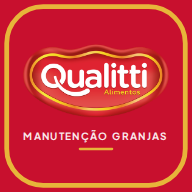
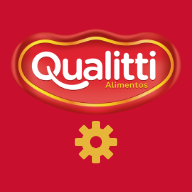
Add files via upload

diff --git a/app.js b/app.js
@@ -5,7 +5,14 @@
    ===================================================================== */
 "use strict";
 const C = window.CONFIG;
-const sb = window.supabase.createClient(C.SUPABASE_URL, C.SUPABASE_ANON_KEY);
+const VERSAO = "7.0";
+// Toda chamada ao servidor tem prazo: com sinal fraco, em vez de ficar "carregando" para sempre, avisa e deixa tentar de novo
+function fetchComPrazo(url, opts = {}) {
+  const c = new AbortController(), t = setTimeout(() => c.abort(), 20000);
+  opts.signal?.addEventListener("abort", () => c.abort());
+  return fetch(url, { ...opts, signal: c.signal }).finally(() => clearTimeout(t));
+}
+const sb = window.supabase.createClient(C.SUPABASE_URL, C.SUPABASE_ANON_KEY, { global: { fetch: fetchComPrazo } });
 const $ = (s, el = document) => el.querySelector(s);
 const $$ = (s, el = document) => [...el.querySelectorAll(s)];
 const esc = (v) => String(v ?? "").replace(/[&<>"']/g, (c) => ({ "&": "&amp;", "<": "&lt;", ">": "&gt;", '"': "&quot;", "'": "&#39;" }[c]));
@@ -138,7 +145,8 @@ function toast(msg, bad = false) {
   const t = $("#toast"); t.innerHTML = `${ic(bad ? "alert" : "checkc")}<span>${esc(msg)}</span>`; t.className = "on" + (bad ? " bad" : "");
   clearTimeout(toast.t); toast.t = setTimeout(() => (t.className = ""), bad ? 5000 : 2600);
 }
-const errMsg = (e) => { const m = e?.message || String(e); return /fetch|network/i.test(m) ? "Sem conexão. Verifique a internet e tente de novo." : m; };
+const erroRede = (e) => /fetch|network|abort|timeout|Load failed/i.test(e?.message || e?.name || String(e));
+const errMsg = (e) => { const m = e?.message || String(e); return erroRede(e) ? (navigator.onLine ? "O servidor demorou para responder. Verifique o sinal e tente de novo." : "Sem conexão. Verifique a internet e tente de novo.") : m; };
 async function rpc(n, a) { const { data, error } = await sb.rpc(n, a); if (error) throw error; return data; }
 async function busy(btn, fn) { btn.disabled = true; try { await fn(); } catch (e) { toast(errMsg(e), true); } finally { btn.disabled = false; } }
 
@@ -156,6 +164,7 @@ function telaLogin(msg = "") {
     </div>
     <div class="login-lado">
       <form class="caixa-login" id="fLogin">
+        ${S.status?.em_manutencao ? `<div class="note" style="margin-bottom:14px"><b>Sistema em manutenção.</b> ${esc(S.status.mensagem || "Voltamos em breve.")} Só administradores conseguem entrar agora.</div>` : ""}
         <h2>Entrar</h2>
         <p class="sub-login">Use o usuário e a senha fornecidos pelo administrador.</p>
         <label class="lg">Usuário<span class="campo-ic">${ic("user", "")}<input name="login" autocomplete="username" autocapitalize="none" spellcheck="false" placeholder="ex.: joao.silva"></span></label>
@@ -196,14 +205,24 @@ async function carregarUsuarios() {
   }
   S.usuarios = Object.fromEntries(data.map((u) => [u.id, { ...u, foto: u.foto_em ? cache[u.id]?.foto || null : null }]));
 }
+async function statusSistema() {
+  try { const { data, error } = await sb.from("app_status").select("em_manutencao,mensagem,atualizado_em").maybeSingle(); return error ? { erro: error } : data || {}; }
+  catch (e) { return { erro: e }; }
+}
 async function iniciar() {
+  const st = await statusSistema();
+  if (st.erro && erroRede(st.erro)) return telaForaDoAr();
+  S.status = st;
   const { data: { session } } = await sb.auth.getSession();
   if (!session) return telaLogin();
-  const { data: eu } = await sb.from("usuarios").select(COLS_USU).eq("id", session.user.id).maybeSingle();
+  const { data: eu, error: eEu } = await sb.from("usuarios").select(COLS_USU).eq("id", session.user.id).maybeSingle();
+  if (eEu && erroRede(eEu)) return telaForaDoAr();
   if (!eu?.ativo || eu.excluido_em || !eu.perfis.length) { await sb.auth.signOut(); return telaLogin("Seu usuário não tem acesso liberado. Procure o administrador."); }
   S.eu = eu;
+  if (st.em_manutencao && !eu.perfis.includes("admin")) return telaManutencao(st);
   const [n, g, c, j] = await Promise.all([sb.from("nucleos").select("*").order("nome"), sb.from("galpoes").select("*").order("numero"),
     sb.from("carros_almoxarifado").select("*").order("codigo"), sb.from("jornada_config").select("*").maybeSingle(), carregarUsuarios()]);
+  if (n.error || g.error) return telaForaDoAr();
   S.nucleos = n.data.map((x) => ({ ...x, galpoes: g.data.filter((y) => y.nucleo_id === x.id).map((y) => y.numero) }));
   S.nucleoPorId = Object.fromEntries(S.nucleos.map((x) => [x.id, x]));
   S.carros = (c.data || []).filter((x) => x.ativo);
@@ -213,14 +232,50 @@ async function iniciar() {
   const r = rotas();
   ir(r.find((x) => x.id === S.rota) ? S.rota : r[0].id);
 }
+// Telas de "fora do ar": manutenção programada (ligada pelo admin) e servidor sem resposta. Ambas se atualizam sozinhas.
+function telaAviso({ icone, titulo, texto, detalhe = "", seg = 30, acao }) {
+  clearInterval(telaAviso.t); S.eu = S.eu && acao === "manut" ? S.eu : null;
+  $$(".sheet-wrap, .page").forEach((x) => x.remove());
+  $("#app").innerHTML = `<section class="fora"><div class="fora-box">
+    <img src="${C.LOGO}" alt="${esc(C.NOME_EMPRESA)}">
+    <div class="fora-ic">${ic(icone)}</div><h1>${titulo}</h1><p>${texto}</p>${detalhe ? `<div class="fora-msg">${detalhe}</div>` : ""}
+    <p class="fora-cont" id="foraCont"></p>
+    <button class="btn btn-primary" id="foraTentar">${ic("refresh")}Tentar agora</button>
+    ${acao === "manut" ? `<button class="btn btn-ghost" id="foraSair">Entrar com outro usuário</button>` : ""}</div></section>`;
+  let falta = seg;
+  const tick = () => { $("#foraCont").textContent = `Nova tentativa automática em ${falta} s`; if (--falta < 0) { clearInterval(telaAviso.t); iniciar().catch(() => telaForaDoAr()); } };
+  tick(); telaAviso.t = setInterval(tick, 1000);
+  $("#foraTentar").onclick = () => { clearInterval(telaAviso.t); $("#foraCont").textContent = "Conectando…"; iniciar().catch(() => telaForaDoAr()); };
+  $("#foraSair")?.addEventListener("click", () => { clearInterval(telaAviso.t); sair(); });
+}
+function telaManutencao(st) {
+  telaAviso({ icone: "tool", titulo: "Sistema em manutenção", acao: "manut",
+    texto: "Estamos fazendo uma atualização. O app volta sozinho assim que terminar — não precisa fazer nada.",
+    detalhe: st?.mensagem ? esc(st.mensagem) : "", seg: 30 });
+}
+function telaForaDoAr() {
+  const off = !navigator.onLine;
+  telaAviso({ icone: off ? "wifioff" : "cloud", titulo: off ? "Sem internet" : "Sistema temporariamente fora do ar",
+    texto: off ? "Seu celular está sem conexão. Assim que a internet voltar, o app reconecta sozinho."
+      : "Não conseguimos falar com o servidor agora. Pode ser uma instabilidade passageira ou uma atualização em andamento. Aguarde: o app tenta de novo sozinho.",
+    detalhe: "Nada do que já foi registrado se perde: tudo fica guardado no banco de dados.", seg: 20 });
+}
+
 // Bloqueio vale na hora: o banco já nega os dados; aqui o app confere o acesso a cada minuto e ao voltar para a tela
 function vigiarAcesso() {
   clearInterval(vigiarAcesso.t);
   const conferir = async () => {
-    if (!S.eu) return;
-    const { data, error } = await sb.from("usuarios").select("ativo,excluido_em").eq("id", S.eu.id).maybeSingle();
-    if (error && !/fetch|network/i.test(error.message || "")) return sair("Sua sessão expirou. Entre novamente.");
+    if (!S.eu || $(".fora")) return;
+    let { data, error } = await sb.from("usuarios").select("ativo,excluido_em").eq("id", S.eu.id).maybeSingle();
+    if (error && !erroRede(error)) {   // token vencido (celular parado muito tempo): renova antes de desistir
+      await sb.auth.refreshSession().catch(() => {});
+      ({ data, error } = await sb.from("usuarios").select("ativo,excluido_em").eq("id", S.eu.id).maybeSingle());
+      if (error && !erroRede(error)) return sair("Sua sessão expirou. Entre novamente.");
+    }
     if (!error && (!data || !data.ativo || data.excluido_em)) return sair("Seu acesso foi retirado pelo administrador.");
+    const st = await statusSistema();
+    if (!st.erro) { S.status = st; if (st.em_manutencao && !tem("admin")) return telaManutencao(st); }
+    const bm = $("#bannerManut"); if (bm) bm.hidden = !(st.em_manutencao && tem("admin"));
   };
   vigiarAcesso.t = setInterval(conferir, 60000);
   if (!vigiarAcesso.ligado) { vigiarAcesso.ligado = true; document.addEventListener("visibilitychange", () => { if (!document.hidden) conferir(); }); }
@@ -244,7 +299,14 @@ function avisoConexao() {
 }
 addEventListener("offline", avisoConexao);
 addEventListener("online", () => { avisoConexao(); if (S.eu) { toast("Conexão restabelecida."); recarregar(); } });
-async function sair(msg) { clearInterval(vigiarAcesso.t); S.eu = null; $$(".sheet-wrap, .page").forEach((x) => x.remove()); await sb.auth.signOut(); telaLogin(msg); }
+function relatarErro(e) {
+  console.error(e);
+  if (!S.eu || erroRede(e)) return;
+  clearTimeout(relatarErro.t); relatarErro.t = setTimeout(() => toast("Algo não saiu como esperado. Toque em Atualizar (↻) e tente de novo.", true), 80);
+}
+addEventListener("error", (e) => relatarErro(e.error || e.message));
+addEventListener("unhandledrejection", (e) => relatarErro(e.reason));
+async function sair(msg) { clearInterval(vigiarAcesso.t); S.eu = null; S.avisou = false; S.avisos = null; badgesEm = 0; $$(".sheet-wrap, .page").forEach((x) => x.remove()); await sb.auth.signOut(); telaLogin(msg); }
 // a rolagem acontece dentro do app (não na página), o que mantém a barra inferior no lugar no iOS e no Android
 const rolagem = () => $(".main") || document.scrollingElement;
 
@@ -288,13 +350,14 @@ function ir(id) {
         <div class="who"><div class="txt"><b>${esc(S.eu.nome)}</b><small>${S.eu.perfis.map((p) => PERFIS[p].nome).join(" · ")}</small></div>
           <button class="av-btn mob-only" id="btnPerfilM">${av(S.eu.id)}</button></div>
       </header>
+      <div class="banner-manut" id="bannerManut" ${S.status?.em_manutencao && tem("admin") ? "" : "hidden"}>${ic("tool")}Sistema em manutenção: só administradores estão acessando. Desligue em Controles → Sistema.</div>
       <div id="view"></div>
     </div>
   </div>`;
   $(".rail").onclick = (e) => { const a = e.target.closest("[data-r]"); if (a) { e.preventDefault(); ir(a.dataset.r); rolagem().scrollTop = 0; } };
   $("#btnPerfil").onclick = $("#btnPerfilM").onclick = folhaPerfil;
   $("#btnNovaTop")?.addEventListener("click", novaOS);
-  $("#btnAvisos").onclick = () => folhaAvisos();
+  $("#btnAvisos").onclick = async (e) => { e.currentTarget.classList.add("girando"); await atualizarBadges(true); $("#btnAvisos")?.classList.remove("girando"); folhaAvisos(); };
   $("#btnAtualizar").onclick = atualizarTudo;
   ({ inicio: viewInicio, ordens: viewOrdens, painel: viewPainel, usuarios: viewUsuarios, relatorios: viewRelatorios, controles: viewControles })[id]();
   atualizarBadges();
@@ -341,7 +404,14 @@ const vistosKey = () => `osg_avisos_vistos_${S.eu?.id}`;
 const lerVistos = () => { try { return new Set(JSON.parse(localStorage.getItem(vistosKey()) || "[]")); } catch { return new Set(); } };
 const gravarVistos = (set) => { try { localStorage.setItem(vistosKey(), JSON.stringify([...set].slice(-400))); } catch {} };
 function marcarVistos(itens) { const v = lerVistos(); itens.forEach((x) => v.add(chaveAv(x))); gravarVistos(v); }
-async function atualizarBadges() {
+let badgesEm = 0, badgesP = null;
+function atualizarBadges(forcar = false) {
+  if (badgesP) return badgesP;
+  if (!forcar && Date.now() - badgesEm < 20000) return Promise.resolve();
+  badgesP = atualizarBadgesAgora().catch(() => {}).finally(() => { badgesEm = Date.now(); badgesP = null; });
+  return badgesP;
+}
+async function atualizarBadgesAgora() {
   const lst = await pendencias(), v = lerVistos();
   lst.forEach((x) => { x.acao = ACAO.includes(x.tipo); x.visto = !x.acao && v.has(chaveAv(x)); });
   S.avisos = lst;
@@ -400,15 +470,46 @@ function folhaPerfil() {
     corpo: `<div class="perfil-top">${av(S.eu.id, "xl")}<div><b>${esc(S.eu.nome)}</b><small class="mono">${esc(S.eu.login)}</small>
         <div class="acoes-foto"><label class="btn btn-sm">${ic("camera")}${S.usuarios[S.eu.id]?.foto ? "Trocar foto" : "Adicionar foto"}<input type="file" accept="image/*" id="fFoto" hidden></label>
         ${S.usuarios[S.eu.id]?.foto ? `<button class="btn btn-sm btn-ghost" id="rmFoto">Remover</button>` : ""}</div></div></div>
+      <p class="muted" style="font-size:12px;margin:-2px 0 10px">OS Granjas · versão ${VERSAO}</p>
       <div class="label">O que você pode fazer</div><div class="checks">${S.eu.perfis.map((p) => `<label>${esc(PERFIS[p].nome)}<small>${PERFIS[p].faz}</small></label>`).join("")}</div>`,
-    rodape: `<button class="btn" data-fechar>Fechar</button><button class="btn btn-primary" id="btnSair">${ic("logout")}Sair</button>`,
+    rodape: `<button class="btn" id="btnSenha">${ic("cog")}Alterar senha</button><button class="btn btn-primary" id="btnSair">${ic("logout")}Sair</button>`,
     aoAbrir: (el, fechar) => {
       $("#btnSair", el).onclick = async () => { fechar(); sair(); };
+      $("#btnSenha", el).onclick = () => { fechar(); folhaSenha(); };
       const salvar = async (foto) => { await rpc("definir_foto", { p_foto: foto }); await carregarUsuarios(); fechar(); toast(foto ? "Foto atualizada." : "Foto removida."); recarregar(); };
       $("#rmFoto", el)?.addEventListener("click", () => salvar(null).catch((e) => toast(errMsg(e), true)));
       $("#fFoto", el).onchange = async (e) => {
         const f = e.target.files[0]; if (!f) return;
         try { salvar(await reduzirFoto(f)); } catch (err) { toast("Não foi possível usar essa imagem.", true); }
+      };
+    },
+  });
+}
+// Alterar a própria senha: confirma a senha atual antes (o administrador continua podendo redefinir em Usuários)
+function folhaSenha() {
+  folha({
+    titulo: "Alterar senha", sub: "Use pelo menos 8 caracteres. Não use a mesma senha de outros sistemas.",
+    corpo: `<label class="field"><span>Senha atual</span><input class="input" type="password" id="sAtual" autocomplete="current-password"></label>
+      <label class="field"><span>Nova senha</span><input class="input" type="password" id="sNova" autocomplete="new-password"></label>
+      <label class="field"><span>Repita a nova senha</span><input class="input" type="password" id="sConf" autocomplete="new-password"></label>
+      <label class="checks" style="margin-bottom:6px"><label><input type="checkbox" id="sVer">Mostrar senhas</label></label><p class="err" id="sErr"></p>`,
+    rodape: `<button class="btn" data-fechar>Cancelar</button><button class="btn btn-primary" id="sOk">Salvar nova senha</button>`,
+    aoAbrir: (el, fechar) => {
+      $("#sVer", el).onchange = (e) => ["sAtual", "sNova", "sConf"].forEach((i) => ($("#" + i, el).type = e.target.checked ? "text" : "password"));
+      $("#sAtual", el).focus();
+      $("#sOk", el).onclick = (e) => {
+        const erro = (t) => ($("#sErr", el).textContent = t), atual = $("#sAtual", el).value, nova = $("#sNova", el).value, conf = $("#sConf", el).value;
+        if (!atual) return erro("Digite a senha atual.");
+        if (nova.length < 8) return erro("A nova senha precisa de pelo menos 8 caracteres.");
+        if (nova !== conf) return erro("As duas senhas novas não são iguais.");
+        if (nova === atual) return erro("A nova senha precisa ser diferente da atual.");
+        busy(e.currentTarget, async () => {
+          const { error: e1 } = await sb.auth.signInWithPassword({ email: `${S.eu.login}@${C.DOMINIO_LOGIN}`, password: atual });
+          if (e1) return erro(/banned/i.test(e1.message) ? "Seu acesso foi retirado." : "Senha atual incorreta.");
+          const { error: e2 } = await sb.auth.updateUser({ password: nova });
+          if (e2) return erro(/different/i.test(e2.message) ? "A nova senha precisa ser diferente da atual." : /weak|short|characters/i.test(e2.message) ? "Senha fraca: use pelo menos 8 caracteres, misturando letras e números." : errMsg(e2));
+          fechar(); toast("Senha alterada. Use a nova senha no próximo acesso.");
+        });
       };
     },
   });
@@ -452,7 +553,7 @@ function sucesso({ titulo, texto, linhas = [], primario, secundario }) {
     },
   });
 }
-function recarregar() { const sel = S.sel; const y = rolagem().scrollTop; ir(S.rota); if (sel && !isMob()) abrirOS(sel); rolagem().scrollTop = y; atualizarBadges(); }
+function recarregar() { const sel = S.sel; const y = rolagem().scrollTop; ir(S.rota); if (sel && !isMob()) abrirOS(sel); rolagem().scrollTop = y; atualizarBadges(true); }
 /* ---------------- cartão de OS ---------------- */
 function acoesRapidas(o) {
   const b = (a, rot, cls = "", i = "") => `<button class="btn btn-sm ${cls}" data-acao="${a}" data-id="${o.id}">${i ? ic(i) : ""}${rot}</button>`;
@@ -1272,7 +1373,7 @@ function confirmar({ titulo, texto, botao, perigo, digitar, ok }) {
 
 /* ---------------- início ---------------- */
 sb.auth.onAuthStateChange((ev) => { if (ev === "SIGNED_OUT") telaLogin(); });
-iniciar().catch((e) => telaLogin(errMsg(e)));
+iniciar().catch((e) => (erroRede(e) ? telaForaDoAr() : telaLogin(errMsg(e))));
 /* ---------------- Relatórios (resumo consolidado + PDF + Excel) ---------------- */
 function faixaPeriodo(sel, de, ate) {
   const d = (iso) => new Date(`${iso}T00:00:00-03:00`), mais = (x, n) => new Date(x.getTime() + n * 864e5);
@@ -1534,8 +1635,8 @@ function viewControles(aba = S.abaCtl || "mat") {
   const mnts = Object.values(S.usuarios).filter((u) => u.perfis.includes("manutentor")).sort((a, b) => a.nome.localeCompare(b.nome));
   const optM = `<option value="">Todos</option>${mnts.map((u) => `<option value="${u.id}">${esc(u.nome)}${u.excluido_em ? " (excluído)" : !u.ativo ? " (bloqueado)" : ""}</option>`).join("")}`;
   $("#view").innerHTML = `<div class="content">
-    <div class="seg" id="cAba">${[["mat", "Materiais dos carros", "box"], ["jor", "Jornada e pausas", "clock"]].map(([k, r, i]) => `<button data-a="${k}" aria-pressed="${k === aba}">${r}</button>`).join("")}</div>
-    ${aba === "mat" ? `
+    <div class="seg" id="cAba">${[["mat", "Materiais dos carros", "box"], ["jor", "Jornada e pausas", "clock"], ["sis", "Sistema", "cog"]].map(([k, r, i]) => `<button data-a="${k}" aria-pressed="${k === aba}">${r}</button>`).join("")}</div>
+    ${aba === "sis" ? `<div id="sisOut"><div class="skel"></div></div>` : aba === "mat" ? `
     <section class="card rel-filtros"><div class="rf-grid">
       ${filtroPeriodoHTML("m")}
       <label class="field"><span>Carro (almoxarifado)</span><select class="input" id="mCar"><option value="">Todos</option>${(S.carros || []).map((c) => `<option value="${c.codigo}">${c.codigo}</option>`).join("")}<option value="sem">Sem código (lançamentos antigos)</option></select></label>
@@ -1556,6 +1657,7 @@ function viewControles(aba = S.abaCtl || "mat") {
   </div>`;
   $("#cAba").onclick = (e) => { const b = e.target.closest("[data-a]"); if (b) viewControles(b.dataset.a); };
   const ligar = (p, fn) => { $(`#${p}Per`).onchange = () => { const x = $(`#${p}Per`).value === "x"; $(`#${p}DeL`).hidden = $(`#${p}AteL`).hidden = !x; fn(); }; };
+  if (aba === "sis") return sistemaDesenhar();
   if (aba === "mat") {
     ligar("m", materiaisBuscar);
     ["mDe", "mAte", "mCar", "mMnt", "mNuc"].forEach((i) => ($("#" + i).onchange = materiaisBuscar));
@@ -1709,4 +1811,25 @@ async function jornadaExcel() {
     ...D.linhas.map((p) => [nomeU(p.manutentor_id), osId(p.os_id), MOTIVOS[p.motivo].rot, p.detalhe || "", dhCompleta(p.inicio), p.fim ? dhCompleta(p.fim) : "em pausa", p.duracao_min, p.excesso_almoco_min, p.apos_expediente ? "Sim" : "Não",
       p.autorizada_por ? nomeU(p.autorizada_por) : "", p.obs_autorizacao || ""])], [24, 10, 24, 28, 16, 16, 13, 19, 16, 22, 30]);
   await salvarArquivo(new Blob([X.write(wb, { bookType: "xlsx", type: "array" })], { type: "application/vnd.openxmlformats-officedocument.spreadsheetml.sheet" }), nomeArqCtl("jornada-pausas", D, "xlsx"));
+}
+
+/* ---- sistema: modo manutenção ---- */
+async function sistemaDesenhar() {
+  const st = await statusSistema(); if (st.erro) return toast(errMsg(st.erro), true);
+  S.status = st; const on = !!st.em_manutencao;
+  $("#sisOut").innerHTML = `<section class="card" style="max-width:720px">
+    <h3>Aviso de manutenção</h3>
+    <p class="muted" style="font-size:13px;margin:4px 0 14px">Use antes de uma atualização (banco ou site). Enquanto estiver ligado, técnicos, manutentores, gestores e gerentes veem a tela
+      “Sistema em manutenção” e o app volta sozinho quando você desligar. Administradores continuam entrando normalmente para testar.</p>
+    <div class="zona ${on ? "perigo" : ""}"><div><b>${on ? "Manutenção LIGADA" : "Sistema funcionando normalmente"}</b>
+      <small>${on ? `Ligada em ${fmtDH(st.atualizado_em)}${st.atualizado_por ? " por " + esc(nomeU(st.atualizado_por)) : ""}` : "Todos os usuários estão acessando."}</small></div>
+      <button class="btn ${on ? "btn-primary" : "btn-danger"}" id="sisBtn">${on ? "Desligar manutenção" : "Ligar manutenção"}</button></div>
+    <label class="field" style="margin-top:14px"><span>Mensagem para a equipe <em>(opcional)</em></span>
+      <input class="input" id="sisMsg" maxlength="300" placeholder="Ex.: atualização do sistema, voltamos às 18h" value="${esc(st.mensagem || "")}"></label>
+    <p class="muted" style="font-size:12px">Versão do app: ${VERSAO}</p></section>`;
+  $("#sisBtn").onclick = (e) => confirmar({
+    titulo: on ? "Desligar a manutenção?" : "Ligar a manutenção?", perigo: !on, botao: on ? "Desligar" : "Ligar manutenção",
+    texto: on ? "Todos voltam a acessar em até 1 minuto (ou na hora, ao tocar em “Tentar agora”)." : "Quem estiver usando o app vê a tela de manutenção em até 1 minuto. Registros já feitos não se perdem.",
+    ok: async () => { await rpc("definir_manutencao", { p_ativo: !on, p_mensagem: $("#sisMsg").value }); S.status = await statusSistema();
+      const bm = $("#bannerManut"); if (bm) bm.hidden = !S.status.em_manutencao; toast(on ? "Manutenção desligada." : "Manutenção ligada."); sistemaDesenhar(); } });
 }

diff --git a/sw.js b/sw.js
@@ -1,22 +1,31 @@
-// Service worker do OS Granjas: permite instalar o app e abre mais rápido.
-// Estratégia "rede primeiro": sempre busca a versão nova; o cache só é usado sem internet.
-// Assim uma atualização no GitHub chega a todos sem ficar presa em versão antiga.
-const CACHE = "osg-v7";
-self.addEventListener("install", () => self.skipWaiting());
+// Service worker do OS Granjas (v8)
+// • "Rede primeiro": sempre busca a versão nova no GitHub, então atualizações chegam a todos.
+// • Se o GitHub demorar mais de 6 s, estiver fora do ar ou responder com erro, usa a cópia guardada:
+//   o app continua abrindo (e mostra "fora do ar" só se o banco também não responder).
+// • Banco e login (Supabase) nunca passam por aqui.
+const CACHE = "osg-v8";
+const ESSENCIAIS = ["./", "index.html", "app.js", "style.css", "config.js", "supabase.js", "logo.png", "manifest.webmanifest", "icone-192.png"];
+self.addEventListener("install", (e) => e.waitUntil((async () => {
+  const c = await caches.open(CACHE);
+  await Promise.all(ESSENCIAIS.map((u) => c.add(new Request(u, { cache: "no-cache" })).catch(() => {})));
+  await self.skipWaiting();
+})()));
 self.addEventListener("activate", (e) => e.waitUntil((async () => {
   for (const k of await caches.keys()) if (k !== CACHE) await caches.delete(k);
   await self.clients.claim();
 })()));
 self.addEventListener("fetch", (e) => {
   const r = e.request, u = new URL(r.url);
-  if (r.method !== "GET" || u.origin !== self.location.origin) return; // banco e login (Supabase) nunca passam pelo cache
+  if (r.method !== "GET" || u.origin !== self.location.origin) return;
   e.respondWith((async () => {
+    const cache = await caches.open(CACHE);
+    const guardada = () => cache.match(r).then((x) => x || (r.mode === "navigate" ? cache.match("index.html") : undefined));
     try {
-      const resp = await fetch(r, { cache: "no-cache" });
-      if (resp.ok) (await caches.open(CACHE)).put(r, resp.clone());
-      return resp;
+      const resp = await Promise.race([fetch(r, { cache: "no-cache" }), new Promise((_, rej) => setTimeout(() => rej(new Error("lento")), 6000))]);
+      if (resp.ok) { cache.put(r, resp.clone()); return resp; }
+      return (await guardada()) || resp;           // GitHub com erro (404/500): usa a cópia
     } catch {
-      return (await caches.match(r)) || (r.mode === "navigate" ? caches.match("./index.html") : Response.error());
+      return (await guardada()) || Response.error(); // sem resposta: usa a cópia
     }
   })());
 });

diff --git a/style.css b/style.css
@@ -937,3 +937,18 @@ table.rt .linkish { font-size: 13px; }
   .topbar .bell { width: 36px; height: 36px; }
   .topbar { gap: 8px; }
 }
+/* telas de manutenção / fora do ar */
+.fora { min-height: 100dvh; display: grid; place-items: center; padding: 24px 18px calc(24px + env(safe-area-inset-bottom));
+  background: radial-gradient(120% 80% at 50% 0%, #D51E2C 0%, #9C0F1B 55%, #6A0B14 100%); }
+.fora-box { width: 100%; max-width: 420px; background: var(--surface); border-radius: 22px; padding: 28px 24px 22px; text-align: center; box-shadow: var(--sh-3); }
+.fora-box img { width: 150px; margin: 0 auto 14px; display: block; }
+.fora-ic { width: 56px; height: 56px; border-radius: 16px; margin: 0 auto 12px; display: grid; place-items: center; background: var(--gold-50); color: var(--gold-600); }
+.fora-ic svg.i { width: 28px; height: 28px; }
+.fora h1 { font-size: 21px; font-weight: 800; letter-spacing: -.02em; margin-bottom: 8px; }
+.fora p { color: var(--muted); font-size: 14.5px; }
+.fora-msg { margin: 14px 0 0; padding: 10px 12px; border-radius: 12px; background: var(--surface-2); border: 1px solid var(--line); font-size: 13.5px; color: var(--ink-2); }
+.fora-cont { font-size: 12.5px !important; margin: 16px 0 12px; }
+.fora .btn { width: 100%; margin-top: 6px; }
+.banner-manut { display: flex; align-items: center; gap: 8px; margin: 12px 28px 0; padding: 9px 12px; border-radius: 12px; background: var(--gold-50); border: 1px solid #F0DDA6; color: #6B4E00; font-size: 13px; font-weight: 600; }
+.banner-manut svg.i { width: 16px; height: 16px; }
+@media (max-width: 860px) { .banner-manut { margin: 10px 14px 0; } }
